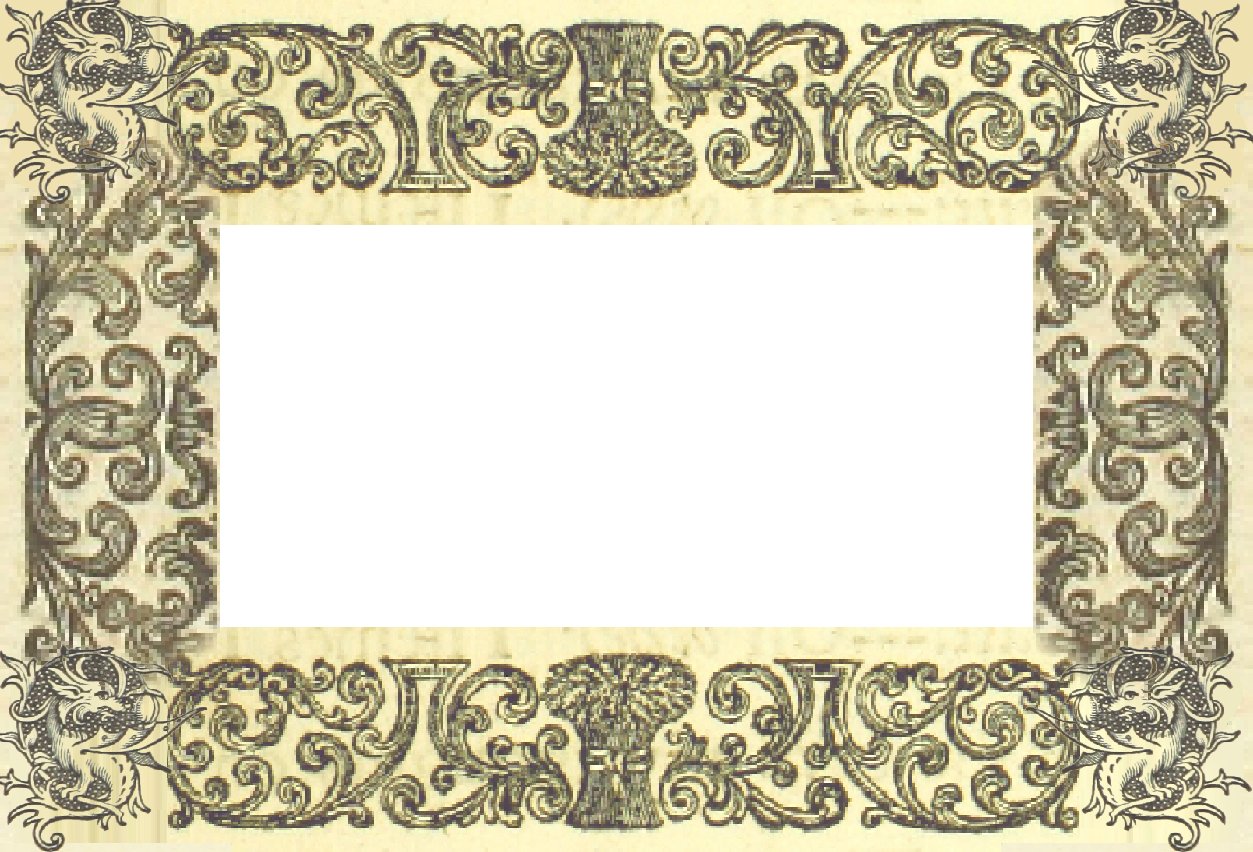
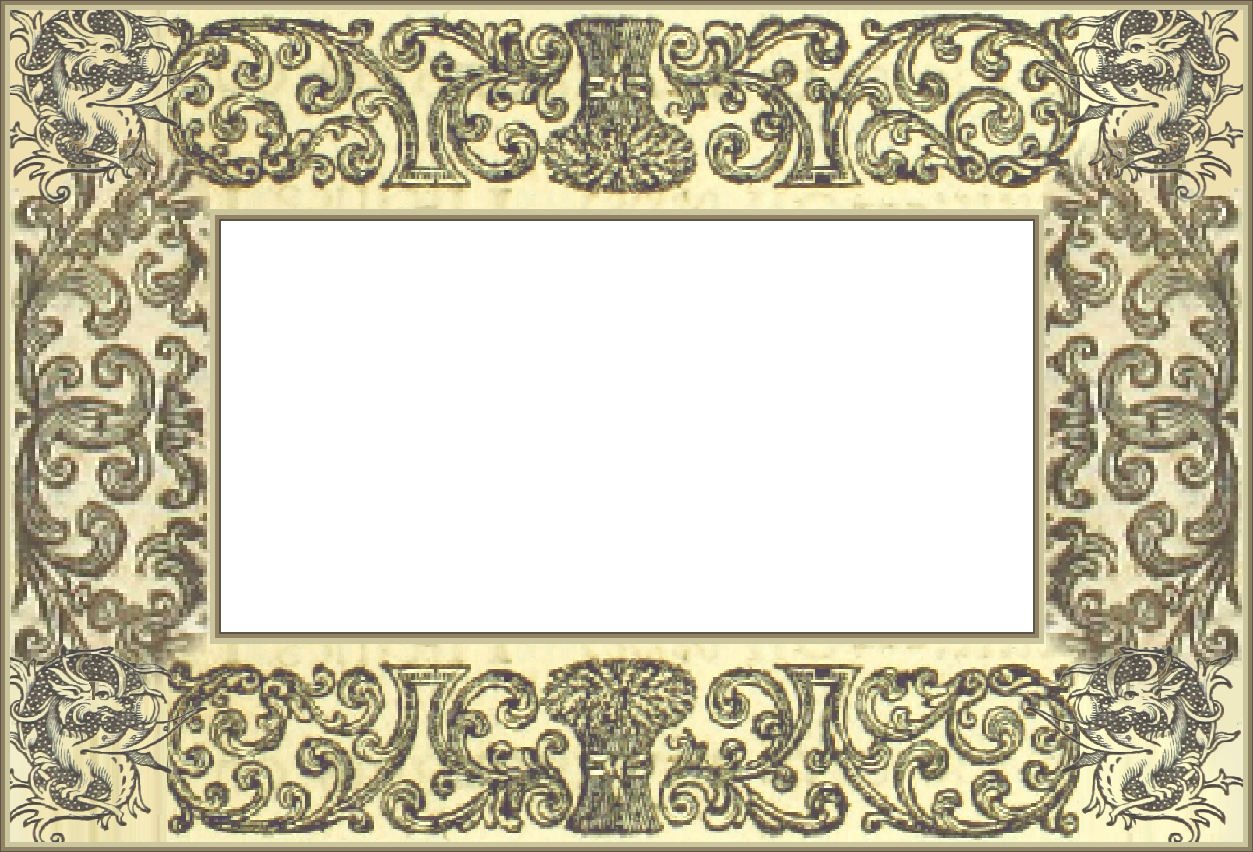
peces 2

diff --git a/scripts/aboutme.js b/scripts/aboutme.js
@@ -1,5 +1,6 @@
-let peces = document.getElementsByClassName("pez");
-let pez_gay = document.getElementById("pez_gay");
+let peces = document.getElementsByClassName("contenedor_pez");
+let pez_gay = document.getElementById("contenedor_gay");
+let pez_mov = false;
 
 posInicial(pez_gay);
 pez_gay.addEventListener("mousemove",huir);
@@ -17,10 +18,10 @@ function pecesStart(){
 function posInicial(pez){
     //Math.random() * (max - min) + min + "px";
     pez.style.left = (Math.random() * (80 - 15) +15) + "%";
-    pez.style.top = (Math.random() * (430-80) + 80) + "px";
+    pez.style.top = (Math.random() * (380-10) + 10) + "px";
     if(pez.style.left <=50){
     //está a la izquierda
-    pez.style.scale = -1;
+    pez.childNodes[1].style.transform = "scaleX(-1)";
     }
 }
 
@@ -57,17 +58,20 @@ function targetPez(pez){
 
     let pez_x =0;
 
+    console.log(pez);
+
     if(parseInt(pez.style.left) < 50){
         //está a la izquierda
-        pez.style.transform = "scaleX(-1)";
+        console.log(pez.childNodes);
+        pez.childNodes[1].style.transform = "scaleX(-1)";
         pez_x = (Math.random() * (80 - 50) +50);
     }
     else{
-        pez.style.transform = "scaleX(1)";
+        pez.childNodes[1].style.transform = "scaleX(1)";
         pez_x = (Math.random() * (50 - 15) +15);
     }
 
-    let pez_y = Math.random() * (430-80) + 80;
+    let pez_y = Math.random() * (300-40) + 40;
 
     // console.log("Nuevas coords: "+pez_x+" "+pez_y);
 
@@ -76,52 +80,61 @@ function targetPez(pez){
 
 function huir(){
 
-    pez=document.getElementById("pez_gay");
+    if(pez_mov){
+        return;
+    }
+    pez_mov = true;
+
+    console.log("mover");
+
+    pez=document.getElementById("contenedor_gay");
     
     let pez_x =0;
+
     if(parseInt(pez.style.left) < 50){
-        //está a la izquierda
-        pez.style.transform = "scaleX(-1)";
+        pez.childNodes[1].style.transform = "scaleX(-1)";
         pez_x = (Math.random() * (80 - 50) +50);
     }
     else{
-        pez.style.transform = "scaleX(1)";
+        pez.childNodes[1].style.transform = "scaleX(1)";
         pez_x = (Math.random() * (50 - 15) +15);
     }
 
-    let pez_y = Math.random() * (80-10) + 10;
+    let pez_y = Math.random() * (300-40) + 40;
 
-    pez.style.top = pez_y+"%";
-    pez.style.left = pez_x+"%";
+    // pez.style.left = pez_x + "%";
+    // pez.style.top = pez_y + "px";
+
+    moverPezGay(pez,pez_x, pez_y,1);
 }
 
+function moverPezGay(pez,target_x, target_y,speed){
+        let pos_x = parseFloat(pez.style.left.split(".")[0]);
+    let pos_y = parseFloat(pez.style.top);
+    let distancia_x = target_x - pos_x;
+    let distancia_y = target_y - pos_y;
+    let suma_x = 0;
+    let suma_y = 0;
 
-// const peznsfw = document.getElementById("pez_gay");
+    if(Math.abs(distancia_x) < 2 && Math.abs(distancia_y) < 10){
+        //terminado el movimiento, busca otro
+        pez_mov = false;
+    }
+    else {
+        pos_x = parseFloat(pez.style.left.split(".")[0]);
+        pos_y = parseFloat(pez.style.top);
+        distancia_x = target_x - pos_x;
+        distancia_y = target_y - pos_y;
 
-// const animateMove = (element, prop, pixels) =>
-//   anime({
-//     targets: element,
-//     [prop]: `${pixels}px`,
-//     easing: "easeOutCirc"
-//   });
+        suma_x = parseFloat(pez.style.left) + 10*(distancia_x/100);
+        suma_y = parseFloat(pez.style.top) + 10*(distancia_y/100);
 
-// ["mouseover", "click"].forEach(function (el) {
-//   peznsfw.addEventListener(el, function (event) {
-//     const top = getRandomNumber(window.innerHeight - this.offsetHeight);
-//     const left = getRandomNumber(window.innerWidth - this.offsetWidth);
+        pez.style.left = suma_x + "%";
+        pez.style.top = suma_y + "px";
 
-//     animateMove(this, "left", left).play();
-//     animateMove(this, "top", top).play();
-//   });
-// });
-
-// const getRandomNumber = (num) => {
-//   return Math.floor(Math.random() * (num + 1));
-// };
-
-//from: https://codepen.io/jsonhoward-the-typescripter/pen/pogZXNB
-
-
+        setTimeout(moverPezGay,speed,pez,target_x,target_y,speed);
+    }
+}
 
 
 

diff --git a/pages/Shangri-La.html b/pages/Shangri-La.html
@@ -14,19 +14,43 @@
     <div id="bordePecera"></div>
     <div id="pecera">
         <!-- from https://www.biodiversitylibrary.org/page/5897384 -->
-        <img class=pez id=pez1 src="../resources/peces/pez1.png" onclick="alertar('pelis');"> letterbox pelis favs
-        <img class=pez id=pez2 src="../resources/peces/pez2.png" onclick="alertar('juegos');"> backloggd juegos favs
-        <img class=pez id=pez3 src="../resources/peces/pez3.png" onclick="alertar('personajes');"> kinlist y midna
-        <img class=pez id=pez4 src="../resources/peces/pez4.png" onclick="alertar('pokemon');"> top 50 pokemon
-        <img class=pez id=pez5 src="../resources/peces/pez5.png" onclick="alertar('galeria');"> galeria
-        <img class=pez id=pez6 src="../resources/peces/pez6.png" onclick="alertar('tests');"> resultados de test
-        <img class=pez id=pez7 src="../resources/peces/pez7.png" onclick="alertar('spotify');"> musica spotify
-        <img class=pez id=pez8 src="../resources/peces/pez8.png" onclick="alertar('anime');"> weeb shit
-        <img class=pez id=pez9 src="../resources/peces/pez9.png" onclick="alertar('tism');"> favorite obsessions
-        <img class=pez id=pez10 src="../resources/peces/pez10.png"  onclick="alertar('gay shit');"> pride
+        <div class="contenedor_pez" id="contenedor_1">
+            <img class=pez id=pez1 src="../resources/peces/pez1.png" onclick="alertar('pelis');"><p>Películas</p>
+        </div>
+        <div class="contenedor_pez" id="contenedor_2">
+            <img class=pez id=pez2 src="../resources/peces/pez2.png" onclick="alertar('juegos');"><p>Juegos</p>
+        </div>
+        <div class="contenedor_pez" id="contenedor_3">
+            <img class=pez id=pez3 src="../resources/peces/pez3.png" onclick="alertar('personajes');"><p>kinlist</p>
+        </div>
+        <div class="contenedor_pez" id="contenedor_4">
+            <img class=pez id=pez4 src="../resources/peces/pez4.png" onclick="alertar('pokemon');"><p>pokemon</p>
+        </div>
+        <div class="contenedor_pez" id="contenedor_5">
+            <img class=pez id=pez5 src="../resources/peces/pez5.png" onclick="alertar('galeria');"><p>fotos</p>
+        </div>
+        <div class="contenedor_pez" id="contenedor_6">
+            <img class=pez id=pez6 src="../resources/peces/pez6.png" onclick="alertar('tests');"><p>anime</p>
+        </div>
+        <div class="contenedor_pez" id="contenedor_7">
+            <img class=pez id=pez7 src="../resources/peces/pez7.png" onclick="alertar('spotify');"><p>???</p>
+        </div>
+        <div class="contenedor_pez" id="contenedor_8">
+            <img class=pez id=pez8 src="../resources/peces/pez8.png" onclick="alertar('anime');"><p>???</p>
+        </div>
+        <div class="contenedor_pez" id="contenedor_9">
+            <img class=pez id=pez9 src="../resources/peces/pez9.png" onclick="alertar('tism');"><p>???</p>
+        </div>
+        <div class="contenedor_pez" id="contenedor_10">
+            <img class=pez id=pez10 src="../resources/peces/pez10.png"  onclick="alertar('gay shit');"><p>Pride</p>
+        </div>
 
-        
-        <img id="pez_gay" src="../resources/peces/pez_gay.png" onclick="alertar('GAY PORN');"> nsfw (huye) dentro hay osha violations
+        <div id="contenedor_gay">
+            <img id="pez_gay" src="../resources/peces/pez_gay.png" onclick="alertar('GAY PORN');"><p>NSFW</p>
+        </div>
+    </div>
+    <div id="Old_Hobson">
+        <a href="../index.html">Volver</a>
     </div>
 </body>
     <script defer src="../scripts/aboutme.js"></script>

diff --git a/css/aboutme.css b/css/aboutme.css
@@ -1,48 +1,72 @@
 body{
-    background-image: url("../resources/fondos/barco.png");
+    background-image: url("../resources/fondos/bang.png");
     background-repeat: no-repeat;
 	background-size: cover;
 }
 
-.pez{
+.contenedor_pez, #contenedor_gay{
     position:absolute;
-    width:200px;
+}
+
+.contenedor_pez p, #contenedor_gay p{
+    text-align: center;
+    position: relative;
+    top:-30px;
+    font-size: 20px;
+    color: rgb(52, 24, 4);
+    text-shadow: 10px 10px 5px rgb(129, 111, 70);
+}
+
+.pez, #pez_gay{
+    width:120px;
     height:auto;
     z-index: 1;
     filter: drop-shadow(10px 10px 5px rgb(129, 111, 70));
 }
 
 #pez_gay{
-    position: absolute;
-    top: 50%;
-    left: 50%;
-    width:80px;
-    height:auto;
-    z-index: 1;
-    filter: drop-shadow(10px 10px 5px rgb(129, 111, 70));
+    width:50px;
 }
 
-#pecera{
-    /* margin: 0px 10% 0px 10%; */
+#pecera, #bordePecera{
     margin:auto;
     margin-top: 20px;
-    height: 450px;
-    width: 80%;
+    height: 400px;
+    width: 70%;
     z-index: 1;
+    top:20px;
+    left:10%;
+    position: absolute;
+    border: 50px solid #5a5746;
+    background-image: url("../resources/fondos/barco.png");
+    background-repeat: no-repeat;
+	background-size: cover;
+    /* outline-offset: -50px; */
 }
 
 #bordePecera{
     z-index: 3;
-    border: 50px solid red;
     border-image: url(../resources/bordes/borde1.png) 300 round;
-    font-size: 0px;
-    outline-offset: -50px;
-    margin:auto;
-    top:20px;
-    left:6%;
-    position: absolute;
-    height: 450px;
-    width: 80%;
     user-select: none;
     pointer-events: none;
+    background-image: none;
+}
+
+#Old_Hobson{
+    position: absolute;
+    height: 180px;
+    width: 200px;
+    top:380px;
+    left:6%;
+    z-index: 4;
+    background-image: url("../resources/peces/Old_Hobson.png");
+    background-repeat: none;
+    background-size: contain;
+}
+
+#Old_Hobson a{
+    font-size: 36px;
+    display: block;
+    text-align: center;
+    margin-top:50%;
 }
